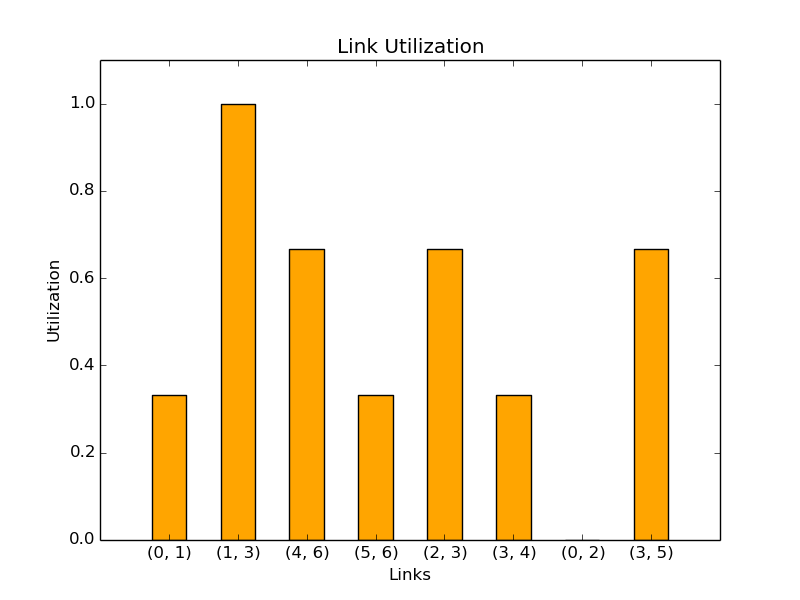
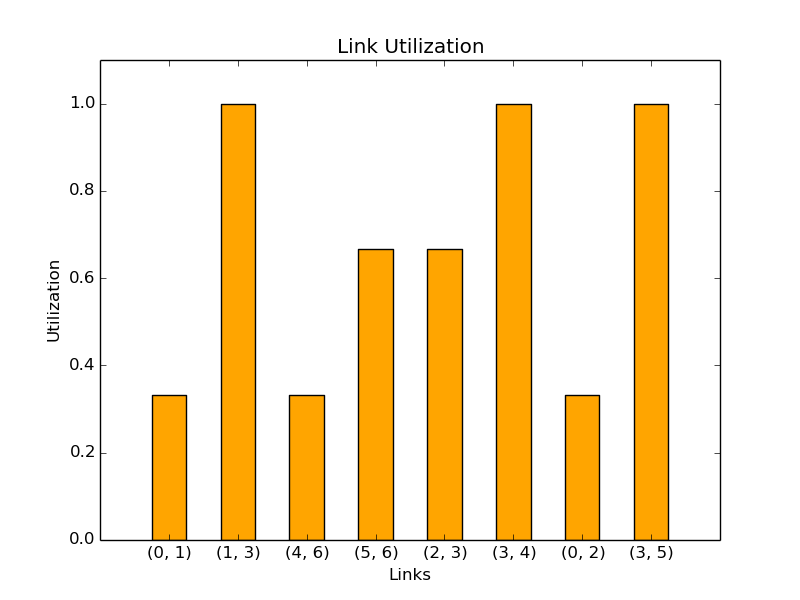
pseudo code added for new algo

diff --git a/pathfinder.py b/pathfinder.py
@@ -91,6 +91,12 @@ for j in range(repeats):
 			if path_pack_in_empty_graph == []:
 				print 'there is really no path for this demand, no chance!'
 			else:
+				# Go through path book of least intersectioning demand d_u and reroute to the shortest non-intersecting path
+				# if there is none: reroute d_u to the least intersecting one
+				# try now to allocate d_n
+				# try to allocate d_u again, if it does not succeed, revert d_u and do not allocate d_n
+
+				# Only allocate new demand d_n if the old d_u can be allocated again
 				# demand cannot be allocated, what could be done?
 				# plot hard demand
 				[plot_pngs, plot_counter] = gf.ppng(G_updated, d_list[i], plot_pngs, plot_counter, 1, plot_enable)

diff --git a/graphFunctions.py b/graphFunctions.py
@@ -124,10 +124,8 @@ def link_util(G,F):
 
 	orig_bw=[]
 	for n,nbrs in G.adjacency_iter():
-		print 'n: '+str(n)+' nbrs: '+str(nbrs)
 		for nbr,eattr in nbrs.items():
 		        orig_bw.append(eattr['bw'])
-			print "eattr['bw']"+str(eattr['bw'])
 
 	end_bw=[]
 	for n,nbrs in F.adjacency_iter():
